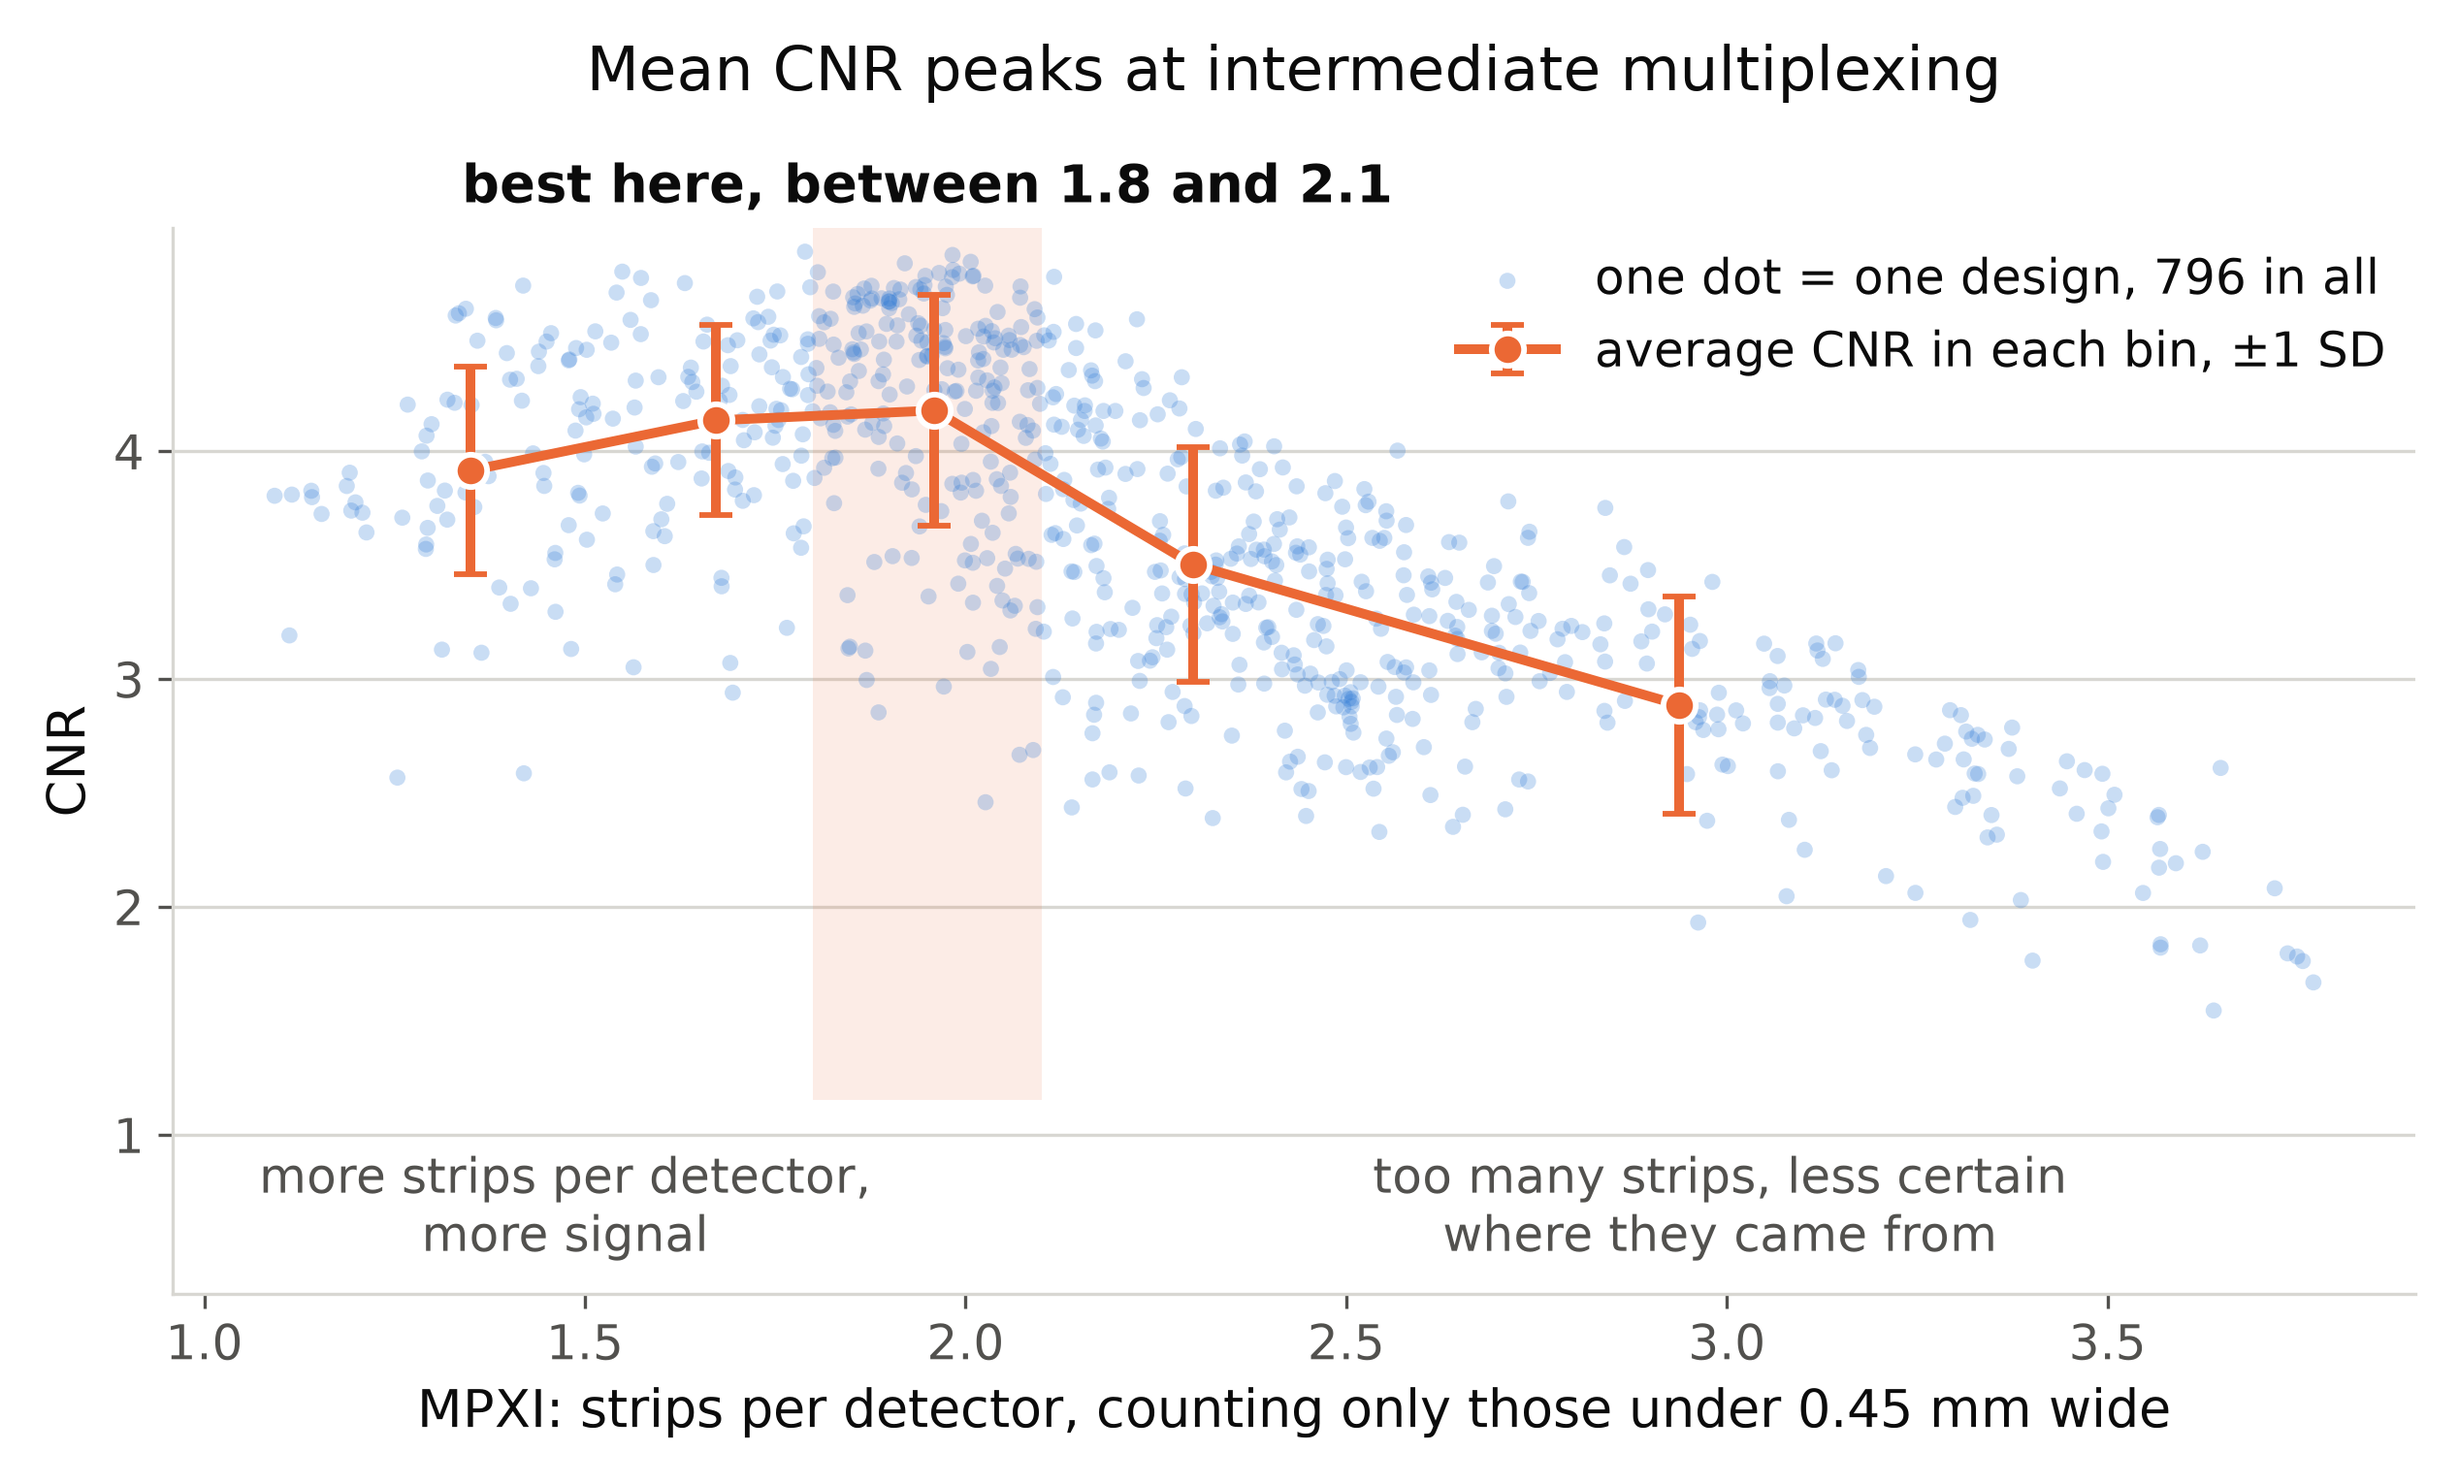
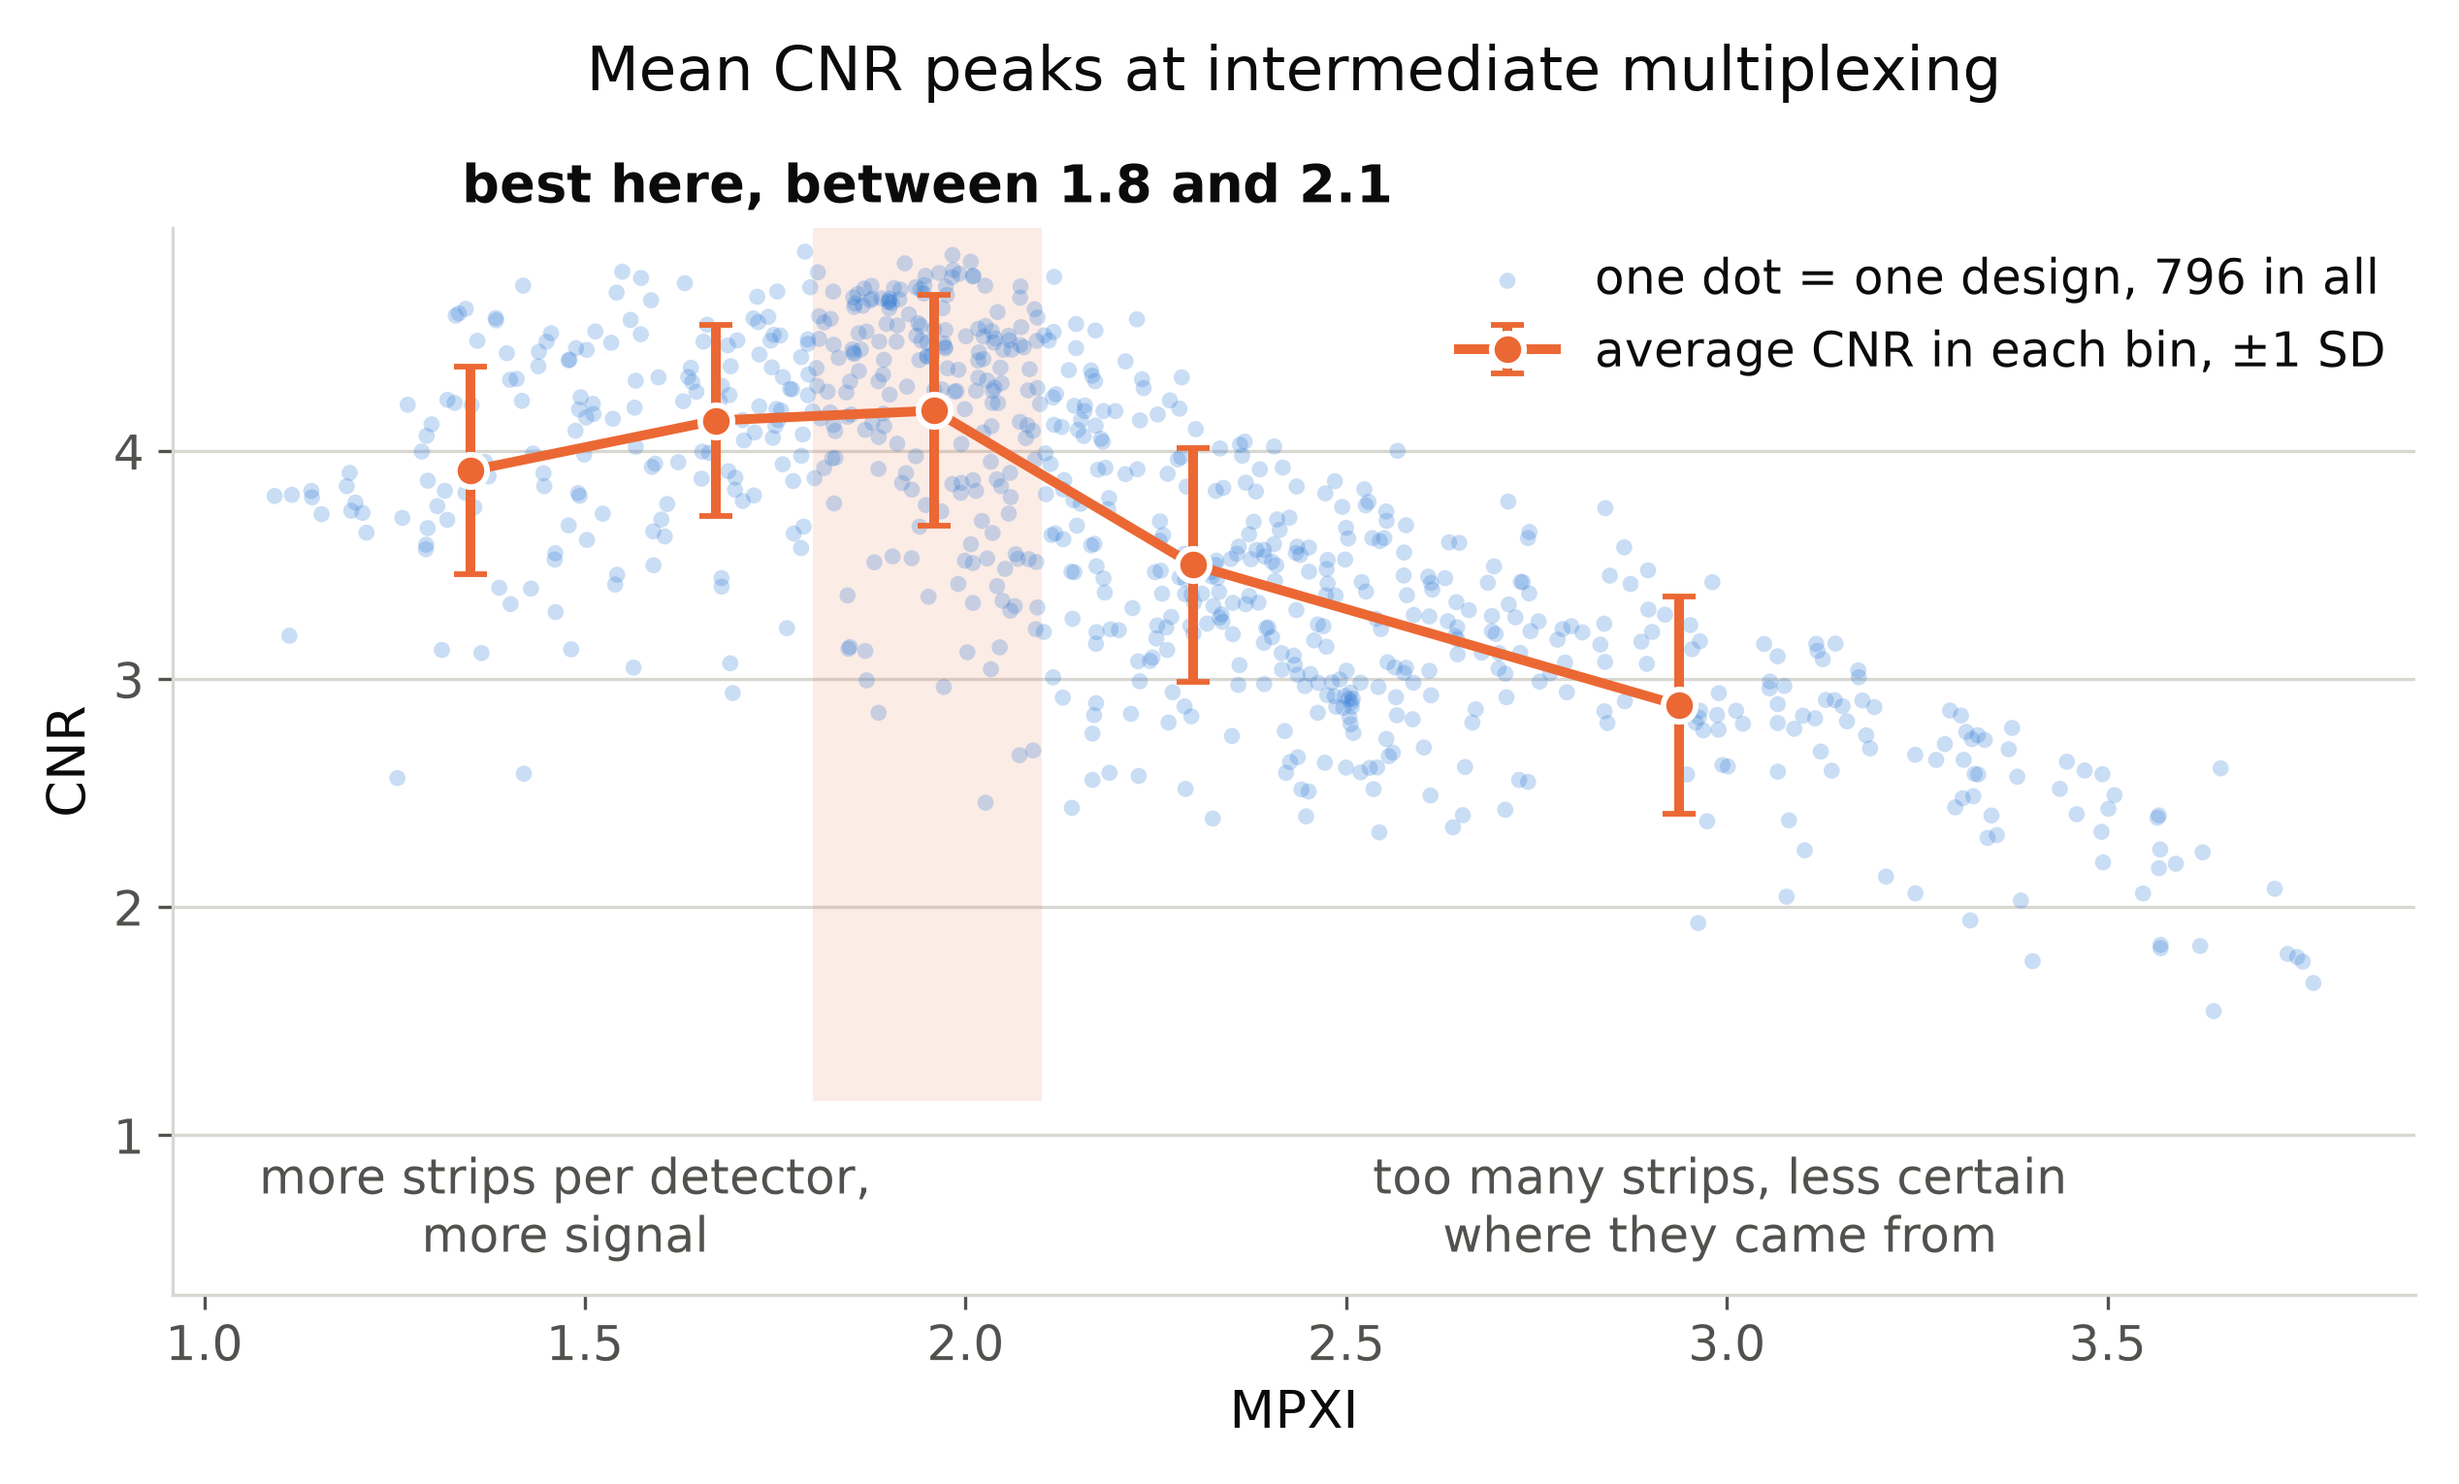
R10 figures: Dr. Yao's PPDS formula, FWHM_w formula, short axis titles
eq_ppds is his PPDS_j at 18 pt; eq_fwhm_w_green typesets the weighting for slide 9;
mpxi_optimum and asci_cnr_tradeoff axes read MPXI and ASCI (%).

Changed region(s): [[0.1558, 0.8908, 0.4363, 0.983], [0.4675, 0.8908, 0.6544, 0.983], [0.6856, 0.8908, 0.8726, 0.983]]

diff --git a/spebt/optimization/make_equation_figures.py b/spebt/optimization/make_equation_figures.py
@@ -41,10 +41,18 @@ EQS = {
                         r"\mathrm{\mathbb{E}}[\mathrm{HV}(P\cup\{\mathbfit{f}(\mathbfit{x})\}) - \mathrm{HV}(P)]$", INK, 15, "stix"),
     "eq_xnext_ry_green.png": (r"$\mathbfit{x}_{\mathrm{next}} = \underset{\mathbfit{x}\in\chi}{\mathrm{argmax}}\;"
                               r"\mathrm{\mathbb{E}}[\mathrm{HV}(P\cup\{\mathbfit{f}(\mathbfit{x})\}) - \mathrm{HV}(P)]$", GREEN, 15, "stix"),
-    # Slide 6 (26 Oct: "put a computation there, or a formula" for PPDS), as
-    # compute_metrics._ppds_components computes it: each detector's PPDF over the
-    # summed area of its strips, summed over detectors, averaged over the FOV.
-    "eq_ppds.png": (r"$\mathrm{PPDS} = \dfrac{1}{N}\,\sum_{j}\,\sum_{i}\,\dfrac{p_{ij}}{A_{i}}$", INK, 14, "stix"),
+    # Slide 6 (26 Oct: "put a computation there, or a formula" for PPDS). Since his
+    # R9-rY (28 Oct) the formula is his, PPDS at pixel j: each detector's PPDF over
+    # the summed area of its strips, summed over the detectors; the searches' objective
+    # averages it over the FOV (compute_metrics._ppds_components). PPDS upright, as
+    # HV and cov are; 18 pt, the size of his equation.
+    "eq_ppds.png": (r"$\mathrm{PPDS}_{j} = \sum_{i}\,\dfrac{p_{ij}}{A_{i}}$", INK, 18, "stix"),
+    # Slide 9 (his R9-rY comment, 28 Oct: "Can you express the weighting
+    # mathematically?"): compute_fwhm_and_asci's fwhm_weighted_mean, every strip b's
+    # FWHM weighted by its sensitivity s_b, the mean of its PPDF over the strip. Green
+    # as the column it sits in; Sigma, not \sum, keeps b beside it.
+    "eq_fwhm_w_green.png": (r"$\mathrm{FWHM}_{\mathrm{w}} = \dfrac{\Sigma_{b}\, s_{b}\, \mathrm{FWHM}_{b}}"
+                            r"{\Sigma_{b}\, s_{b}}$", GREEN, 14, "stix"),
     # Backup slide 21 (QA, 24 Oct), at its 14 pt body size and in the same style:
     # vectors and matrices (x, k(x), K, y) bold italic, the kernel k(x, x') and the
     # scalars italic, the identity I, the transpose T and the operators upright.

diff --git a/spebt/optimization/make_mpxi_optimum_figure.py b/spebt/optimization/make_mpxi_optimum_figure.py
@@ -214,10 +214,10 @@ def main():
                      transform=ax.transAxes, fontsize=FS_TEXT, color=INK_MUTED,
                      ha="center", va="bottom")
 
-    # Dr. Yao, 22 Oct rehearsal: "strips under 0.45 mm" rewritten so others can
-    # follow it. The average is over the detectors that see a strip (the notes say so).
-    ax.set_xlabel("MPXI: strips per detector, counting only those under 0.45 mm wide",
-                  fontsize=FS_LABEL, color=INK)
+    # Dr. Yao, R9-rY (28 Oct): the axis title is "MPXI" alone; the strip filter is
+    # in the slide's source line. The average is over the detectors that see a strip
+    # (the notes say so).
+    ax.set_xlabel("MPXI", fontsize=FS_LABEL, color=INK)
     ax.set_ylabel("CNR", fontsize=FS_LABEL, color=INK)
     # Critique 3 (23 Oct): what the data establish, not a causal rule.
     ax.set_title("Mean CNR peaks at intermediate multiplexing",

diff --git a/spebt/optimization/make_tradeoff_figure.py b/spebt/optimization/make_tradeoff_figure.py
@@ -271,9 +271,9 @@ def main():
                                ms=7.5, zorder=4)
     layer["asci"] += ax_a.plot(x[moved], asci[moved], "o", color=C_ASCI, ms=7.5,
                                mfc="white", mec=C_ASCI, mew=2.0, zorder=4)
-    # 22 Oct rehearsal: "strips under 0.45 mm" said in words, as on slide 10.
-    layer["asci"].append(ax_a.set_ylabel("ASCI (%), only strips\nunder 0.45 mm wide",
-                                         fontsize=FS_LABEL, color=C_ASCI))
+    # "ASCI (%)" alone, as Dr. Yao had slide 10's axis titled "MPXI" (R9-rY, 28 Oct);
+    # the FWHM filter is in the slide's source line.
+    layer["asci"].append(ax_a.set_ylabel("ASCI (%)", fontsize=FS_LABEL, color=C_ASCI))
     layer["asci"].append(ax_a.set_title(
         "Move ring II outward and ASCI keeps rising",
         fontsize=FS_TITLE, color=INK, pad=8, loc="left"))

diff --git a/deck_figures/SOURCES.md b/deck_figures/SOURCES.md
@@ -9,8 +9,8 @@ manim scenes live in `MIC/deck/visuals/`. Everything below is what R5
 
 | Figure | Slide | Script | Data |
 |---|---|---|---|
-| `asci_cnr_tradeoff.png` | 11 | `make_tradeoff_figure.py`<br>Click-build layers: `asci_cnr_tradeoff_l1_frame.png` (axes, ticks, grid, x label, dashed marker, ring III note, footnote; from entry), `asci_cnr_tradeoff_l2_asci.png` (ASCI curve, its label, top title; bullet 2), `asci_cnr_tradeoff_l3_cnr.png` (CNR curve and bars, its label, bottom title; bullet 3), written by `make_tradeoff_figure.py --out ../../deck_figures/asci_cnr_tradeoff.png --layers`, which never writes the still and writes nothing unless the three laid over white in order give it to within 2 levels | ring2_000..007 sweep, 5-seed CNR; outer four points also moved ring III |
-| `mpxi_optimum.png` | 10 | `make_mpxi_optimum_figure.py --data ../archive_backup/results_summary_mobo.csv --h2h ../archive_backup/h2h --band 0.20,0.45 --edges 1.5,1.8,2.1,2.5`<br>Click-build layers: `mpxi_optimum_l1_points.png` (axes, ticks, grid, both axis labels, the designs, the dot legend entry; from entry), `mpxi_optimum_l2_trend.png` (binned mean and ±1 SD bars, their legend entry, the shaded peak bin and its "best here" note, the two notes along the bottom, the title; bullet 4), written by the same command with `--out ../../deck_figures/mpxi_optimum.png --layers`, which never writes the still and exits with an error if the two laid over white in order differ from it by more than 8 levels anywhere (they give it to within 1) | aperture band 0.20 to 0.45 mm, all eleven searches pooled (main archive first, then the ten h2h files; mobo_NNNN names qualified by search, shared lhs and seed designs scored once): 796 designs, 14 of them hand-placed (ring2_*, seed6d_*); fixed bins under 1.5, 1.5 to 1.8, 1.8 to 2.1, 2.1 to 2.5, over 2.5 give 3.91 / 4.13 / 4.18 / 3.50 / 2.89. R7 plotted the main archive, 285 designs at all apertures |
+| `asci_cnr_tradeoff.png` | 11 | `make_tradeoff_figure.py`<br>Click-build layers: `asci_cnr_tradeoff_l1_frame.png` (axes, ticks, grid, x label, dashed marker, ring III note, footnote; from entry), `asci_cnr_tradeoff_l2_asci.png` (ASCI curve, its label "ASCI (%)" since R10, top title; bullet 2), `asci_cnr_tradeoff_l3_cnr.png` (CNR curve and bars, its label, bottom title; bullet 3), written by `make_tradeoff_figure.py --out ../../deck_figures/asci_cnr_tradeoff.png --layers`, which never writes the still and writes nothing unless the three laid over white in order give it to within 2 levels | ring2_000..007 sweep, 5-seed CNR; outer four points also moved ring III |
+| `mpxi_optimum.png` | 10 | `make_mpxi_optimum_figure.py --data ../archive_backup/results_summary_mobo.csv --h2h ../archive_backup/h2h --band 0.20,0.45 --edges 1.5,1.8,2.1,2.5`<br>Click-build layers: `mpxi_optimum_l1_points.png` (axes, ticks, grid, both axis labels, the designs, the dot legend entry; from entry), `mpxi_optimum_l2_trend.png` (binned mean and ±1 SD bars, their legend entry, the shaded peak bin and its "best here" note, the two notes along the bottom, the title; bullet 1 since R10). x axis titled "MPXI" alone since R10 (Dr. Yao, R9-rY), written by the same command with `--out ../../deck_figures/mpxi_optimum.png --layers`, which never writes the still and exits with an error if the two laid over white in order differ from it by more than 8 levels anywhere (they give it to within 1) | aperture band 0.20 to 0.45 mm, all eleven searches pooled (main archive first, then the ten h2h files; mobo_NNNN names qualified by search, shared lhs and seed designs scored once): 796 designs, 14 of them hand-placed (ring2_*, seed6d_*); fixed bins under 1.5, 1.5 to 1.8, 1.8 to 2.1, 2.1 to 2.5, over 2.5 give 3.91 / 4.13 / 4.18 / 3.50 / 2.89. R7 plotted the main archive, 285 designs at all apertures |
 | `reference_comparison.png` | 16 | `make_reference_figure.py` | 5-seed per-rod CNR, values recorded in the script |
 | `gain_map.png` | 17 | `make_gain_map_figure.py` | same per-rod gains |
 | `search_convergence.png` | 18 | `make_convergence_figure.py` | main archive plus the ten h2h arms; needs the `results/` and `results_h2h_*/` layout (see the script) |
@@ -20,8 +20,9 @@ manim scenes live in `MIC/deck/visuals/`. Everything below is what R5
 | `recon_comparison_2panel.png` | (source of the two panels) | `make_recon_figure.py` | needs recon `.npz` on CCR; one noise realization, common display window |
 | `recon_reference_panel.png`, `recon_optimized_panel.png` | 12 | cropped from `recon_comparison_2panel.png` without its matplotlib titles | |
 | `eq_xnext_ry.png`, `eq_xnext_ry_green.png` | 7, 20 | `make_equation_figures.py` (mathtext, STIX): Dr. Yao's R7-rY equation as he laid it out, x in the design space under argmax, the design space as the Greek chi since 26 Oct 2026 (his script X before), the double-struck E upright (`\mathrm{\mathbb{E}}`; bare `\mathbb{E}` is STIX's slanted form); the builder reads the size from the file | |
-| `eq_ppds.png` | 6 | `make_equation_figures.py`: PPDS as `compute_metrics._ppds_components` computes it, each detector's PPDF over the summed area of its strips, summed over detectors, averaged over the FOV (26 Oct 2026: "put a computation there, or a formula") | |
+| `eq_ppds.png` | 6 | `make_equation_figures.py`: since R10 Dr. Yao's formula (R9-rY, 28 Oct 2026), PPDS_j = sum_i p_ij / A_i at pixel j, at his 18 pt; the searches' objective averages it over the FOV, ring I only (`compute_metrics._ppds_components`) | |
 | `eq_spearman.png` | 9 | `make_equation_figures.py`: the correlation coefficient of the ranks, as pandas computes it | |
+| `eq_fwhm_w_green.png` | 9 | `make_equation_figures.py`: FWHM_w = sum_b s_b FWHM_b / sum_b s_b as `compute_fwhm_and_asci` computes it, s_b the strip's mean PPDF (R10, his R9-rY comment) | |
 | `eq_gp_mean.png`, `eq_gp_var.png`, `eq_gp_kernel.png`, `eq_ehvi.png` | 21 | `make_equation_figures.py`: the Gaussian process and the expected hypervolume improvement, at the slide's 14 pt | |
 | `eq_xnext.png`, `eq_xnext_green.png` | (not in R8) | `make_equation_figures.py`; R7's slides 7 and 20 | |
 | `hotrod_phantom.png` | 6 | rendered from the phantom tensor | rod radii 0.100 to 0.225 mm |
